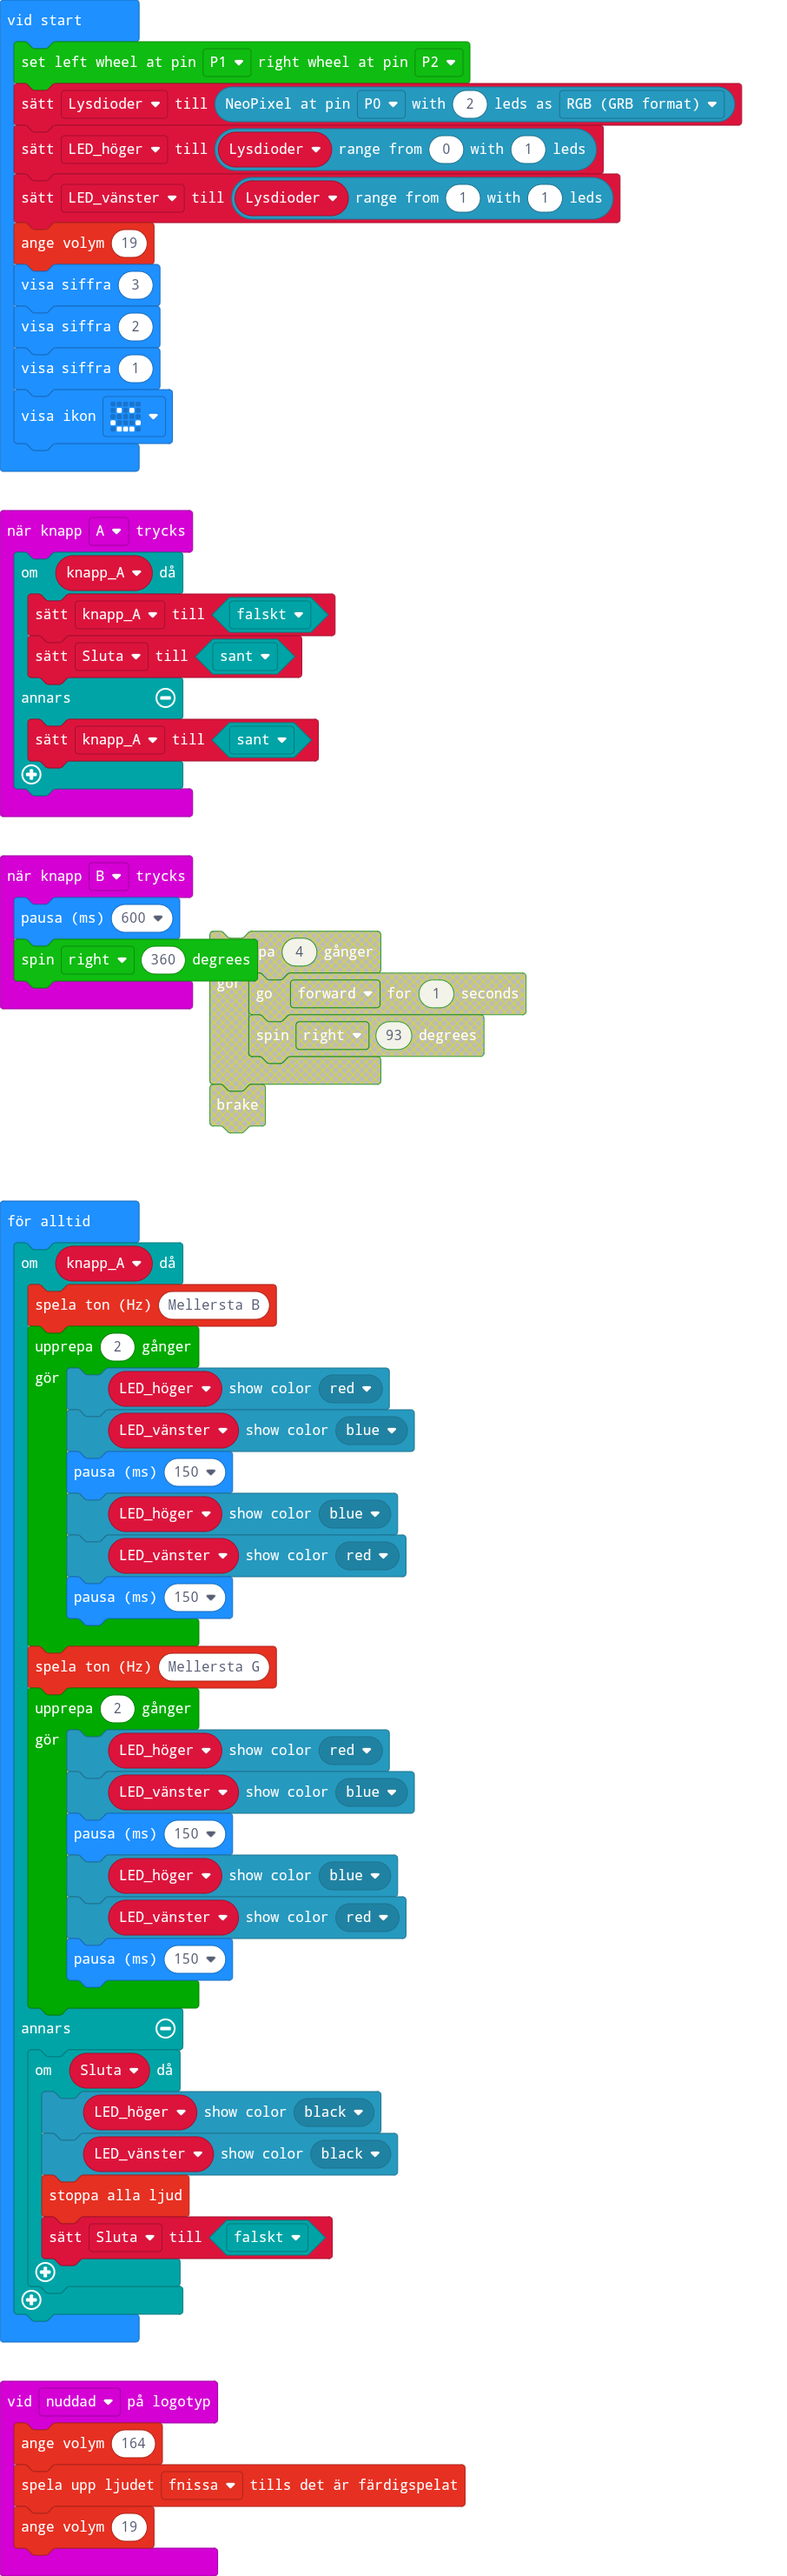
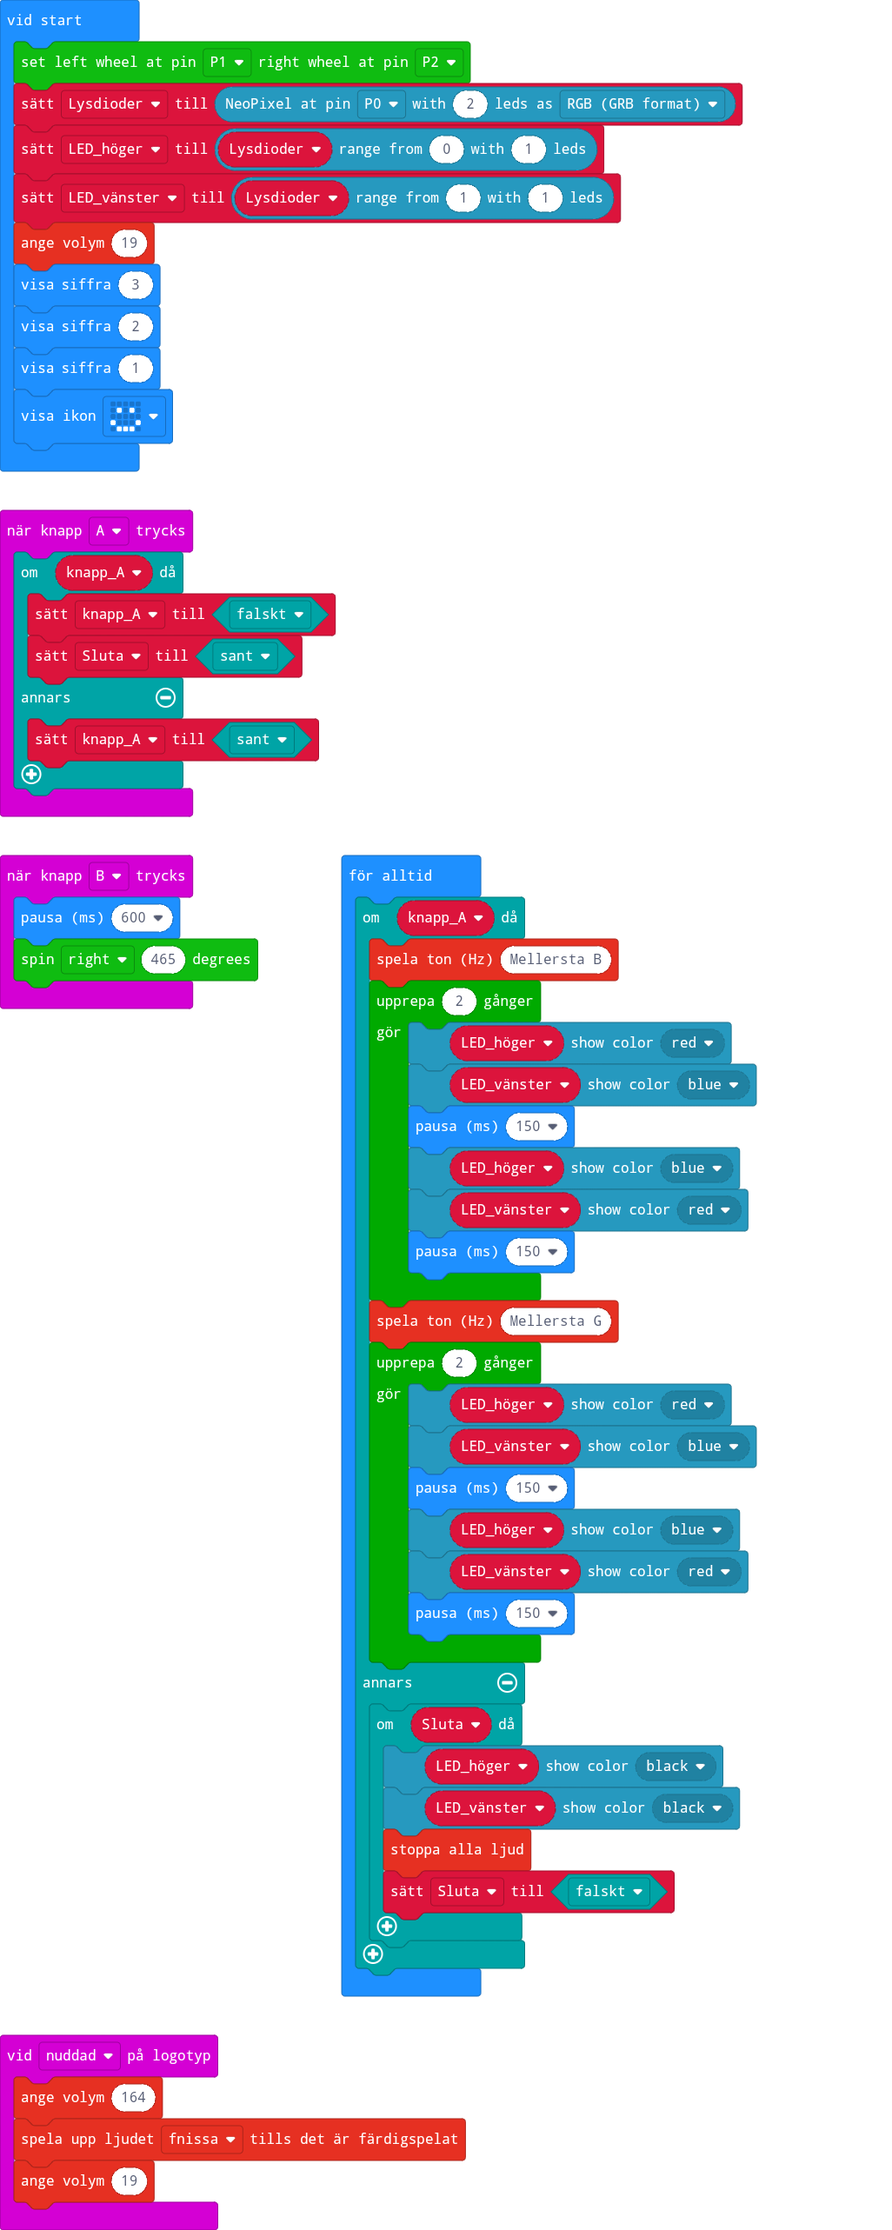
Uppdatera pxt.json, main.blocks, main.ts

diff --git a/main.ts b/main.ts
@@ -13,7 +13,7 @@ input.onButtonPressed(Button.A, function () {
 })
 input.onButtonPressed(Button.B, function () {
     basic.pause(600)
-    RingbitCar.steering_angle(RingbitCar.Direction_turn.right, 360)
+    RingbitCar.steering_angle(RingbitCar.Direction_turn.right, 465)
 })
 let Sluta = false
 let knapp_A = false
